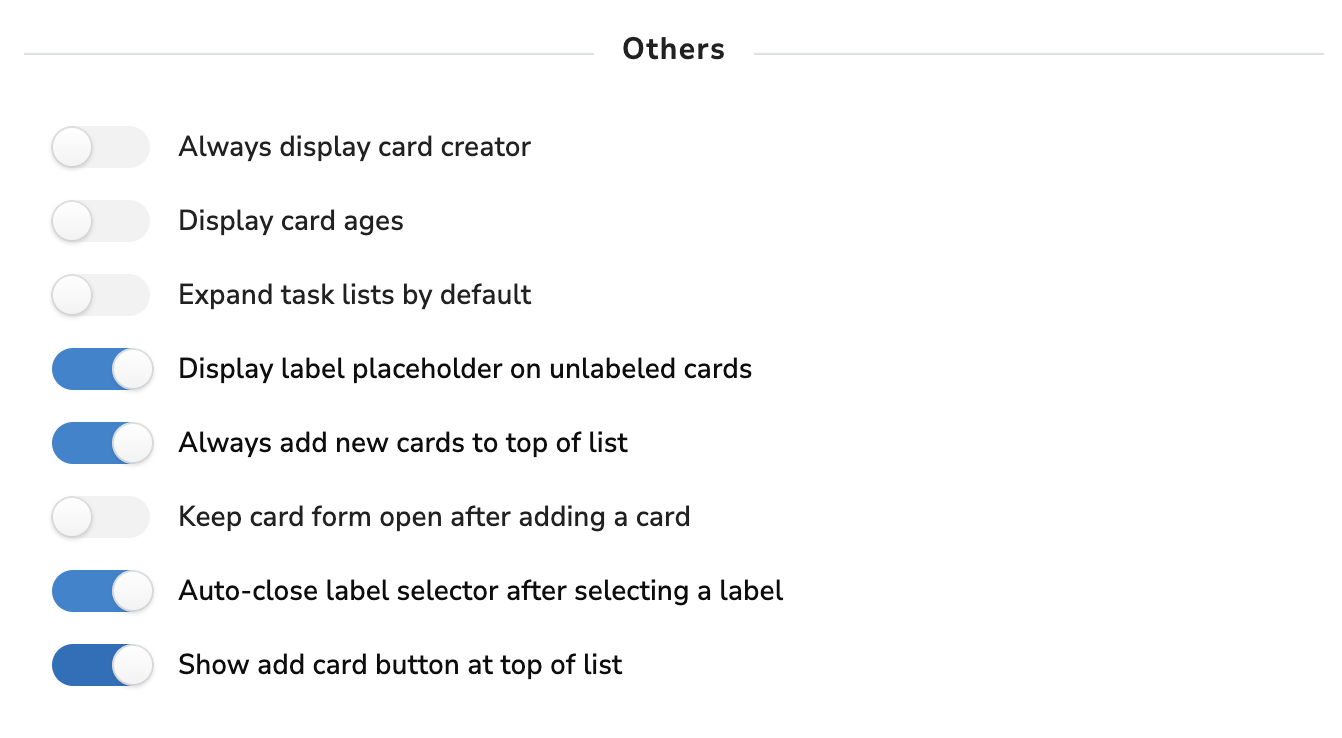
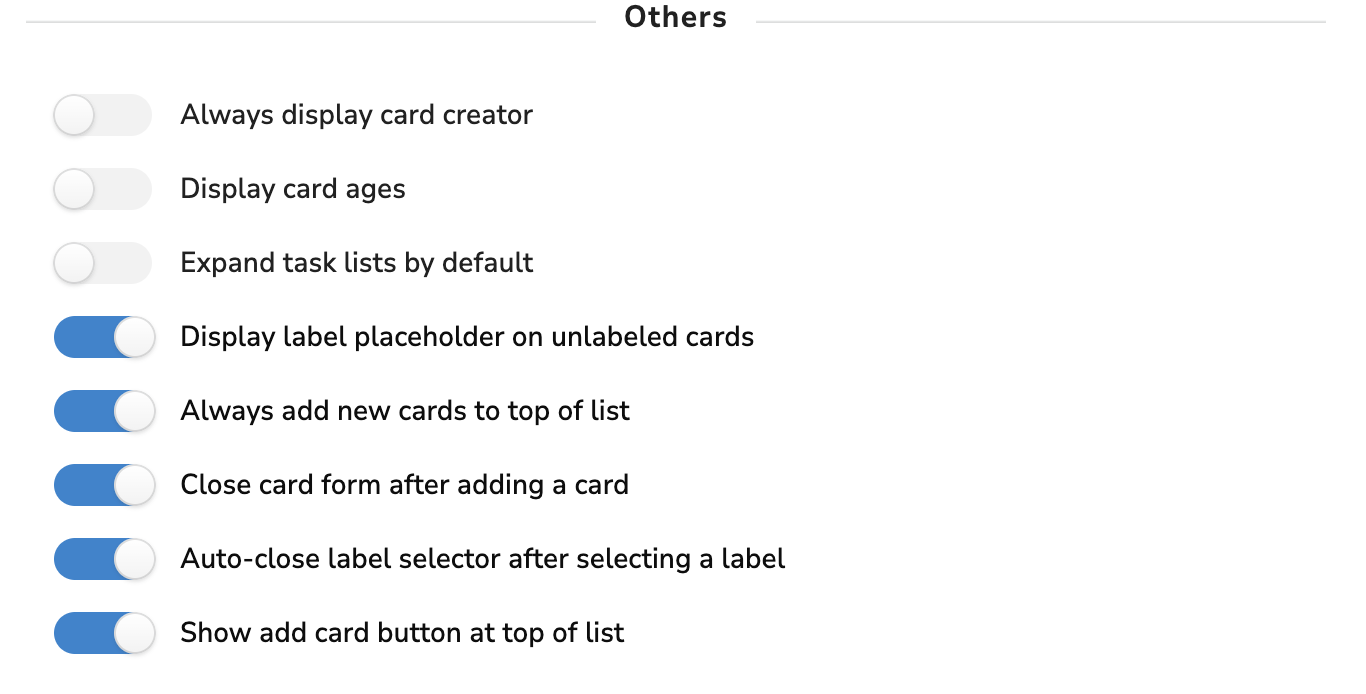
flipped one of the custom preferences to follow the same logic as the others - changes default planka behavior

diff --git a/server/db/migrations/20260705000000_rename_keep_open_to_close_after_card_create.js b/server/db/migrations/20260705000000_rename_keep_open_to_close_after_card_create.js
@@ -1,0 +1,34 @@
+/*!
+ * Copyright (c) 2024 PLANKA Software GmbH
+ * Licensed under the Fair Use License: https://github.com/plankanban/planka/blob/master/LICENSE.md
+ */
+
+exports.up = async (knex) => {
+  await knex.schema.alterTable('board', (table) => {
+    table.renameColumn('keep_open_after_card_create', 'close_after_card_create');
+  });
+
+  // Invert stored values so each board keeps its current behavior under the new,
+  // opposite-meaning flag (close = !keepOpen).
+  await knex('board').update({
+    close_after_card_create: knex.raw('NOT close_after_card_create'),
+  });
+
+  return knex.schema.alterTable('board', (table) => {
+    table.boolean('close_after_card_create').notNullable().defaultTo(false).alter();
+  });
+};
+
+exports.down = async (knex) => {
+  await knex.schema.alterTable('board', (table) => {
+    table.renameColumn('close_after_card_create', 'keep_open_after_card_create');
+  });
+
+  await knex('board').update({
+    keep_open_after_card_create: knex.raw('NOT keep_open_after_card_create'),
+  });
+
+  return knex.schema.alterTable('board', (table) => {
+    table.boolean('keep_open_after_card_create').notNullable().defaultTo(true).alter();
+  });
+};

diff --git a/client/src/components/boards/BoardSettingsModal/PreferencesPane/Others.jsx b/client/src/components/boards/BoardSettingsModal/PreferencesPane/Others.jsx
@@ -77,9 +77,9 @@ const Others = React.memo(() => {
       />
       <Radio
         toggle
-        name="keepOpenAfterCardCreate"
-        checked={board.keepOpenAfterCardCreate}
-        label={t('common.keepOpenAfterCardCreate')}
+        name="closeAfterCardCreate"
+        checked={board.closeAfterCardCreate}
+        label={t('common.closeAfterCardCreate')}
         className={styles.radio}
         onChange={handleChange}
       />

diff --git a/client/src/components/cards/AddCard/AddCard.jsx b/client/src/components/cards/AddCard/AddCard.jsx
@@ -29,7 +29,7 @@ const AddCard = React.memo(({ isOpened, className, onCreate, onClose }) => {
   const {
     defaultCardType: defaultType,
     limitCardTypesToDefaultOne: limitTypesToDefaultOne,
-    keepOpenAfterCardCreate,
+    closeAfterCardCreate,
   } = useSelector(selectors.selectCurrentBoard);
 
   const [t] = useTranslation();
@@ -66,7 +66,7 @@ const AddCard = React.memo(({ isOpened, className, onCreate, onClose }) => {
         type: defaultType,
       });
 
-      if (autoOpen || !keepOpenAfterCardCreate) {
+      if (autoOpen || closeAfterCardCreate) {
         onClose();
       } else {
         focusNameField();
@@ -80,7 +80,7 @@ const AddCard = React.memo(({ isOpened, className, onCreate, onClose }) => {
       setData,
       focusNameField,
       nameFieldRef,
-      keepOpenAfterCardCreate,
+      closeAfterCardCreate,
     ],
   );
 

diff --git a/server/api/controllers/boards/update.js b/server/api/controllers/boards/update.js
@@ -140,7 +140,7 @@ module.exports = {
     addCardToTop: {
       type: 'boolean',
     },
-    keepOpenAfterCardCreate: {
+    closeAfterCardCreate: {
       type: 'boolean',
     },
     autoCloseLabelSelectorAfterSelection: {
@@ -190,7 +190,7 @@ module.exports = {
         'expandTaskListsByDefault',
         'displayLabelPlaceholder',
         'addCardToTop',
-        'keepOpenAfterCardCreate',
+        'closeAfterCardCreate',
         'autoCloseLabelSelectorAfterSelection',
         'showAddCardButtonAtTop',
       );
@@ -214,7 +214,7 @@ module.exports = {
       'expandTaskListsByDefault',
       'displayLabelPlaceholder',
       'addCardToTop',
-      'keepOpenAfterCardCreate',
+      'closeAfterCardCreate',
       'autoCloseLabelSelectorAfterSelection',
       'showAddCardButtonAtTop',
       'isSubscribed',

diff --git a/server/api/models/Board.js b/server/api/models/Board.js
@@ -163,10 +163,10 @@ module.exports = {
       defaultsTo: false,
       columnName: 'add_card_to_top',
     },
-    keepOpenAfterCardCreate: {
+    closeAfterCardCreate: {
       type: 'boolean',
-      defaultsTo: true,
-      columnName: 'keep_open_after_card_create',
+      defaultsTo: false,
+      columnName: 'close_after_card_create',
     },
     autoCloseLabelSelectorAfterSelection: {
       type: 'boolean',

diff --git a/client/src/locales/en-US/core.js b/client/src/locales/en-US/core.js
@@ -38,7 +38,7 @@ export default {
       addCardToTop: 'Always add new cards to top of list',
       showAddCardButtonAtTop: 'Show add card button at top of list',
       autoCloseLabelSelectorAfterSelection: 'Auto-close label selector after selecting a label',
-      keepOpenAfterCardCreate: 'Keep card form open after adding a card',
+      closeAfterCardCreate: 'Close card form after adding a card',
       alwaysDisplayCardCreator: 'Always display card creator',
       apiKeyCreated_title: 'API Key Created',
       apiKey_title: 'API Key',

diff --git a/client/src/models/Board.js b/client/src/models/Board.js
@@ -35,7 +35,7 @@ export default class extends BaseModel {
     expandTaskListsByDefault: attr(),
     displayLabelPlaceholder: attr(),
     addCardToTop: attr(),
-    keepOpenAfterCardCreate: attr(),
+    closeAfterCardCreate: attr(),
     autoCloseLabelSelectorAfterSelection: attr(),
     showAddCardButtonAtTop: attr(),
     context: attr(),

diff --git a/server/api/helpers/boards/get-for-export.js b/server/api/helpers/boards/get-for-export.js
@@ -15,7 +15,7 @@ const BOARD_SETTING_KEYS = [
   'expandTaskListsByDefault',
   'displayLabelPlaceholder',
   'addCardToTop',
-  'keepOpenAfterCardCreate',
+  'closeAfterCardCreate',
   'autoCloseLabelSelectorAfterSelection',
   'showAddCardButtonAtTop',
 ];

diff --git a/README.md b/README.md
@@ -14,7 +14,7 @@ I forked Planka to add several customizations. Each of the following is controll
 
 These are the additional preferences.
 
-<img src="assets/newpreferences.png" height="250px" alt="Label placeholder">
+<img src="assets/newpreferences.png" width="600px" alt="Label placeholder">
 
 And this is what the label placeholder and add a card button look like.
 